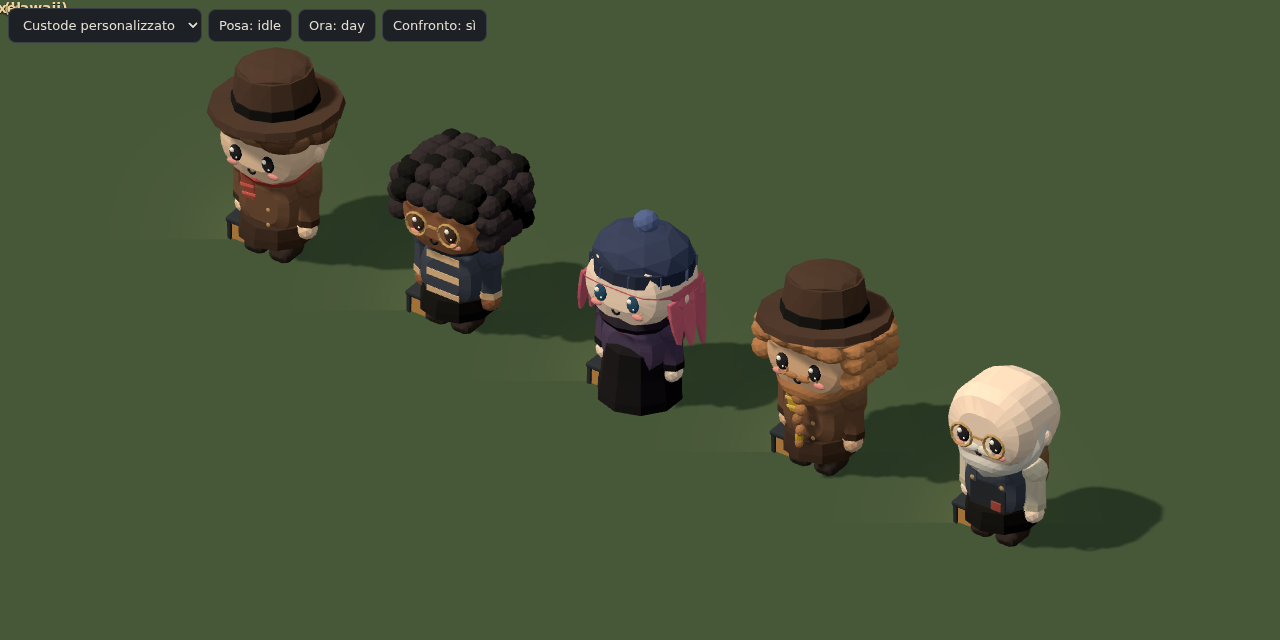
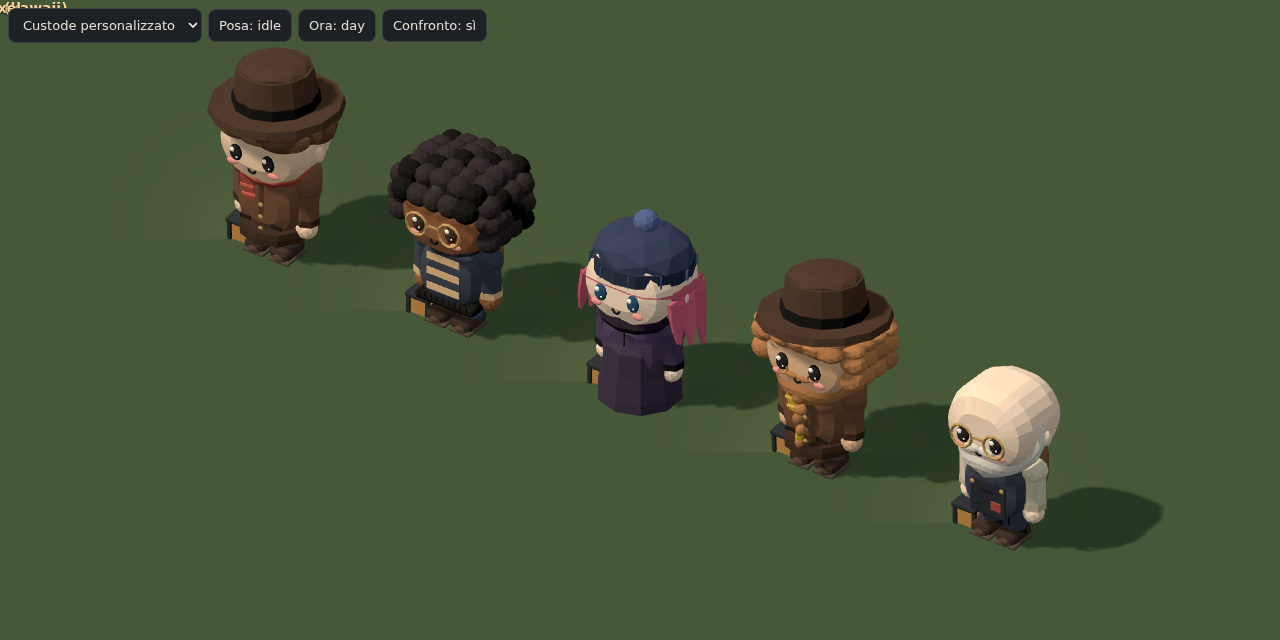
Refined Custode clothes: readable trousers, centred buttons, outfit details
- trousers: shorter coat skirt (none for sweater and overalls), a tone that
  stands out from boots and jacket, front crease, turn-up above low boots
  with rounded toe and sole
- coat: placket with three centred buttons and two flap pockets
- sweater: ribbed hem instead of the flared skirt
- overalls: shirt collar, pocket seam and darn on the bib
- cloak: centre opening, robe in the cloak colour (was nearly black)
- preview: lower grass in front so feet and trousers stay visible

Claude-Session: https://claude.ai/code/session_01U6u5RojYrwYjZd8sSRU7em

diff --git a/Prototype-3d/src/render/lowpoly/kawaii.ts b/Prototype-3d/src/render/lowpoly/kawaii.ts
@@ -255,6 +255,14 @@ interface KH {
   heldL?: Build; heldR?: Build; back?: Build; chest?: Build;
   /** Pelle "brillantinata": brillantini luminosi su viso e mani. */
   sparkle?: boolean;
+  /** Falda svasata sotto il busto: lunga (predefinita), corta o assente. */
+  skirt?: 'long' | 'short' | 'none';
+  /** Pantaloni rifiniti: piega davanti, risvolto sopra lo stivale, suola chiara. */
+  trousers?: boolean;
+  /** Bordo a coste in fondo al busto (maglione). */
+  hem?: string;
+  /** Colore della veste lunga (predefinito: coat2). */
+  robeColor?: string;
 }
 
 const GLITTER = ['#fff4fb', '#ffd6f0', '#d6f6ff', '#fff2c4'];
@@ -271,7 +279,16 @@ function handGlitter(lp: LP, c: [number, number, number], r: number) {
 
 function kHumanoid(o: KH): KawaiiSpec {
   const arm = o.arm ?? o.coat;
-  const leg: Build = (lp) => {
+  const leg: Build = o.trousers ? (lp) => {
+    ball(lp, 0, -0.01, 0, 0.07, 0.06, 0.07, o.pants); // anca dentro il busto
+    lp.cyl(0, -0.15, 0, 0.064, 0.069, 0.15, 8, o.pants, { jitter: 0, vary: 0.03, ao: 0.08 });
+    lp.box(0, -0.075, 0.066, 0.008, 0.12, 0.006, shade(o.pants, -0.07), { jitter: 0, ao: 0 }); // piega
+    lp.cyl(0, -0.15, 0, 0.074, 0.073, 0.035, 8, shade(o.pants, -0.05), { jitter: 0, ao: 0 }); // risvolto
+    // stivaletto basso con punta arrotondata e suola chiara
+    sbox(lp, 0, -0.185, 0.02, 0.14, 0.075, 0.19, 0.04, o.boots);
+    sbox(lp, 0, -0.2, 0.02, 0.142, 0.018, 0.192, 0.008, '#4d4239'); // suola
+    ball(lp, 0, -0.165, 0.09, 0.05, 0.035, 0.035, shade(o.boots, 0.04)); // punta
+  } : (lp) => {
     ball(lp, 0, -0.01, 0, 0.07, 0.06, 0.07, o.pants); // anca dentro il busto
     lp.cyl(0, -0.17, 0, 0.064, 0.068, 0.17, 7, o.pants, { jitter: 0, vary: 0.04, ao: 0.1 });
     sbox(lp, 0, -0.2, 0.025, 0.145, 0.1, 0.2, 0.045, o.boots);
@@ -295,12 +312,18 @@ function kHumanoid(o: KH): KawaiiSpec {
       armL: armB(o.heldL), armR: armB(o.heldR),
       body: (lp) => {
         if (o.robe) {
-          lp.lathe(0, -0.195, 0, [[0.25, 0], [0.245, 0.06], [0.22, 0.2], [0.2, 0.36], [0.17, 0.39], [0, 0.4]], 10, o.coat2, { jitter: 0, vary: 0.04, ao: 0.15 });
+          lp.lathe(0, -0.195, 0, [[0.25, 0], [0.245, 0.06], [0.22, 0.2], [0.2, 0.36], [0.17, 0.39], [0, 0.4]], 10, o.robeColor ?? o.coat2, { jitter: 0, vary: 0.04, ao: o.robeColor ? 0.06 : 0.15 });
           sbox(lp, 0, -0.02, 0, 0.4, 0.39, 0.31, 0.09, o.coat);
         } else {
           sbox(lp, 0, -0.03, 0, 0.4, 0.4, 0.3, 0.09, o.coat);
-          // falda del cappotto appena svasata
-          lp.lathe(0, -0.07, 0, [[0.225, 0], [0.22, 0.05], [0.205, 0.12], [0, 0.12]], 10, o.coat2, { jitter: 0, vary: 0.04, ao: 0.12 });
+          // falda del cappotto appena svasata (corta: lascia vedere i pantaloni)
+          if ((o.skirt ?? 'long') === 'long') lp.lathe(0, -0.07, 0, [[0.225, 0], [0.22, 0.05], [0.205, 0.12], [0, 0.12]], 10, o.coat2, { jitter: 0, vary: 0.04, ao: 0.12 });
+          else if (o.skirt === 'short') lp.lathe(0, -0.05, 0, [[0.218, 0], [0.214, 0.035], [0.205, 0.07], [0, 0.07]], 10, o.coat2, { jitter: 0, vary: 0.04, ao: 0.12 });
+          if (o.hem) {
+            // bordo a coste: fascia appena in rilievo con le costine
+            sbox(lp, 0, -0.035, 0, 0.404, 0.055, 0.304, 0.03, o.hem);
+            for (let i = -4; i <= 4; i++) lp.box(i * 0.04, -0.008, 0.153, 0.008, 0.045, 0.004, shade(o.hem, -0.05), { jitter: 0, ao: 0 });
+          }
         }
         o.chest?.(lp);
         o.back?.(lp);
@@ -657,25 +680,35 @@ function hatBuild(style: HatStyle, c: string): Build | undefined {
 /** Busto per vestito: sciarpa, mantella con fermaglio, salopette, maglione a righe. */
 function outfitChest(l: CustodeLook): Build {
   const acc = l.accentColor;
+  const z = 0.152; // faccia piatta davanti al busto
   switch (l.outfit) {
     case 'cloak': return (lp) => {
       lp.push([0, 0.37, 0]).add(new THREE.TorusGeometry(0.19, 0.05, 5, 12).rotateX(Math.PI / 2), shade(l.outfitColor, -0.06), { jitter: 0 }).pop();
+      // apertura della mantella al centro, con fermaglio in alto
+      lp.box(0, 0.12, z, 0.012, 0.24, 0.006, shade(l.outfitColor, -0.12), { jitter: 0, ao: 0 });
       ball(lp, 0, 0.33, 0.17, 0.035, 0.035, 0.02, acc);
       ball(lp, 0, 0.33, 0.19, 0.015, 0.015, 0.01, LPC.gold);
     };
     case 'overalls': return (lp) => {
-      sbox(lp, 0, 0.02, 0.148, 0.24, 0.2, 0.012, 0.01, shade(l.outfitColor, -0.04));
-      for (const s of [-1, 1]) { lp.box(s * 0.1, 0.2, 0.152, 0.05, 0.18, 0.01, l.outfitColor, { jitter: 0, ao: 0 }); ball(lp, s * 0.1, 0.22, 0.158, 0.016, 0.016, 0.008, LPC.gold); }
-      sbox(lp, 0.06, 0.05, 0.156, 0.07, 0.06, 0.008, 0.006, acc);
+      // camicia: colletto a punte sopra la pettorina
+      for (const s of [-1, 1]) lp.push([s * 0.05, 0.345, 0.14], 0, 0.5, s * -0.5).box(0, 0, 0, 0.07, 0.05, 0.012, '#e6dcc6', { jitter: 0, ao: 0 }).pop();
+      sbox(lp, 0, 0.0, z - 0.004, 0.24, 0.22, 0.012, 0.01, shade(l.outfitColor, -0.04)); // pettorina
+      lp.box(0, 0.16, z + 0.004, 0.08, 0.008, 0.004, shade(l.outfitColor, -0.12), { jitter: 0, ao: 0 }); // cucitura della tasca
+      for (const s of [-1, 1]) { lp.box(s * 0.1, 0.25, z, 0.05, 0.16, 0.01, l.outfitColor, { jitter: 0, ao: 0 }); ball(lp, s * 0.1, 0.2, z + 0.008, 0.016, 0.016, 0.008, LPC.gold); }
+      sbox(lp, 0.06, 0.05, z + 0.006, 0.07, 0.06, 0.008, 0.006, acc); // toppa
+      lp.box(-0.06, 0.06, z + 0.006, 0.04, 0.004, 0.003, shade(l.outfitColor, -0.15), { jitter: 0, ao: 0 }); // rammendo
     };
     case 'sweater': return (lp) => {
       // righe "dipinte" davanti e dietro, aderenti alla parte piatta del busto
-      for (const y of [0.04, 0.16, 0.28]) for (const s of [-1, 1]) lp.box(0, y, s * 0.151, 0.22, 0.045, 0.006, acc, { jitter: 0, ao: 0 });
+      for (const y of [0.07, 0.17, 0.27]) for (const s of [-1, 1]) lp.box(0, y, s * 0.151, 0.22, 0.045, 0.006, acc, { jitter: 0, ao: 0 });
       lp.cyl(0, 0.34, 0, 0.17, 0.15, 0.08, 12, shade(l.outfitColor, -0.05), { jitter: 0 });
     };
     default: return (lp) => {
       scarf(acc, shade(acc, 0.25))(lp);
-      for (const y of [0.06, 0.16]) ball(lp, 0.05, y, 0.155, 0.014, 0.014, 0.008, LPC.gold);
+      // abbottonatura al centro: listino, tre bottoni allineati, due tasche con patta
+      lp.box(0, 0.11, z, 0.03, 0.26, 0.005, shade(l.outfitColor, -0.05), { jitter: 0, ao: 0 });
+      for (const y of [0.02, 0.1, 0.18]) ball(lp, 0, y, z + 0.006, 0.016, 0.016, 0.008, LPC.gold);
+      for (const s of [-1, 1]) lp.box(s * 0.105, 0.05, z + 0.002, 0.07, 0.022, 0.008, shade(l.outfitColor, -0.09), { jitter: 0, ao: 0 });
     };
   }
 }
@@ -727,7 +760,14 @@ function faceDetails(l: CustodeLook): Build {
 export function custodeSpec(l: CustodeLook): KawaiiSpec {
   const coat = l.outfitColor;
   return kHumanoid({
-    coat, coat2: shade(coat, -0.07), skin: l.skin, pants: l.outfit === 'overalls' ? coat : '#3a3230', boots: '#2b211c',
+    coat, coat2: shade(coat, -0.07), skin: l.skin, boots: '#3a2a22',
+    // pantaloni che si staccano da stivali e giacca: grigio fumo col cappotto,
+    // tela blu col maglione, il tessuto della salopette
+    pants: l.outfit === 'overalls' ? coat : l.outfit === 'sweater' ? '#46566a' : '#57524c',
+    skirt: l.outfit === 'coat' ? 'short' : l.outfit === 'cloak' ? 'long' : 'none',
+    trousers: true,
+    robeColor: l.outfit === 'cloak' ? shade(coat, -0.03) : undefined,
+    hem: l.outfit === 'sweater' ? shade(coat, -0.06) : undefined,
     arm: l.outfit === 'overalls' ? '#d8cdb8' : undefined, cuff: l.outfit === 'sweater' ? l.accentColor : l.outfit === 'overalls' ? '#c4b8a0' : undefined,
     robe: l.outfit === 'cloak',
     face: { mouth: 'smile', eye: l.eyes },

diff --git a/Prototype-3d/src/ui/customize.ts b/Prototype-3d/src/ui/customize.ts
@@ -27,7 +27,13 @@ function previewGround(): CachedModel {
   lp.cyl(0, -0.012, 0, 0.6, 0.6, 0.016, 14, GRASS[1], { jitter: 0.006, vary: 0.1, ao: 0 });
   /** Punto sull'anello libero attorno al personaggio. */
   const ring = (a: number, d0 = 0.27, d1 = 0.54): [number, number] => { const d = r.range(d0, d1); return [Math.cos(a) * d, Math.sin(a) * d]; };
-  for (let i = 0; i < 16; i++) { const [x, z] = ring((i / 16) * Math.PI * 2 + r.range(-0.2, 0.2)); grassTuft(lp, x, z, 0.9 + r.next() * 0.5); }
+  // erba più bassa sul davanti (verso la camera), così piedi e pantaloni restano in vista
+  for (let i = 0; i < 16; i++) {
+    const a = (i / 16) * Math.PI * 2 + r.range(-0.2, 0.2);
+    const [x, z] = ring(a, 0.33, 0.56);
+    const front = Math.max(0, Math.cos(a - Math.atan2(2.9, 1.9)));
+    grassTuft(lp, x, z, (0.9 + r.next() * 0.5) * (1 - 0.5 * front));
+  }
   for (let i = 0; i < 7; i++) { const [x, z] = ring(r.range(0, Math.PI * 2), 0.3, 0.52); flower(lp, x, z, r.pick(LPC.flowers), 0.08 + r.next() * 0.07); }
   pebbles(lp, -0.5, 0.2, -0.3, 0.45, 3);
   pebbles(lp, 0.3, -0.5, 0.5, -0.3, 3);

diff --git a/Prototype-3d/docs/visual-migration-plan.md b/Prototype-3d/docs/visual-migration-plan.md
@@ -229,6 +229,13 @@ colonna "Sereno". Veli per qualità: bassa 1, media 2, alta 3. `?mist=0` la speg
   nel pannello "Personaggio", fissa in alto mentre si scorrono le opzioni (dal
   profilo o dalle Impostazioni), su una zolla di prato con fiorellini, sassi e
   funghetti. Solo nello stile low-poly.
+- **Vestiti rifiniti**: pantaloni leggibili (falda del cappotto accorciata,
+  tinta che si stacca da stivali e giacca: grigio fumo col cappotto, tela blu
+  col maglione), con piega, risvolto e stivaletti bassi con punta e suola. Il
+  cappotto ha listino e tre bottoni al centro e due tasche con patta; il
+  maglione un bordo a coste e niente falda; la salopette colletto della
+  camicia, cucitura della tasca e rammendo; la mantella l'apertura al centro e
+  la veste nel suo colore.
 - **Dettagli che seguono il volto**: la testa ha una distanza con segno
   (`headSdf` in `kawaii.ts`); la barba è un velo che aderisce a mento,
   mandibola e basette e si assottiglia sui bordi (colore proprio per barba e
